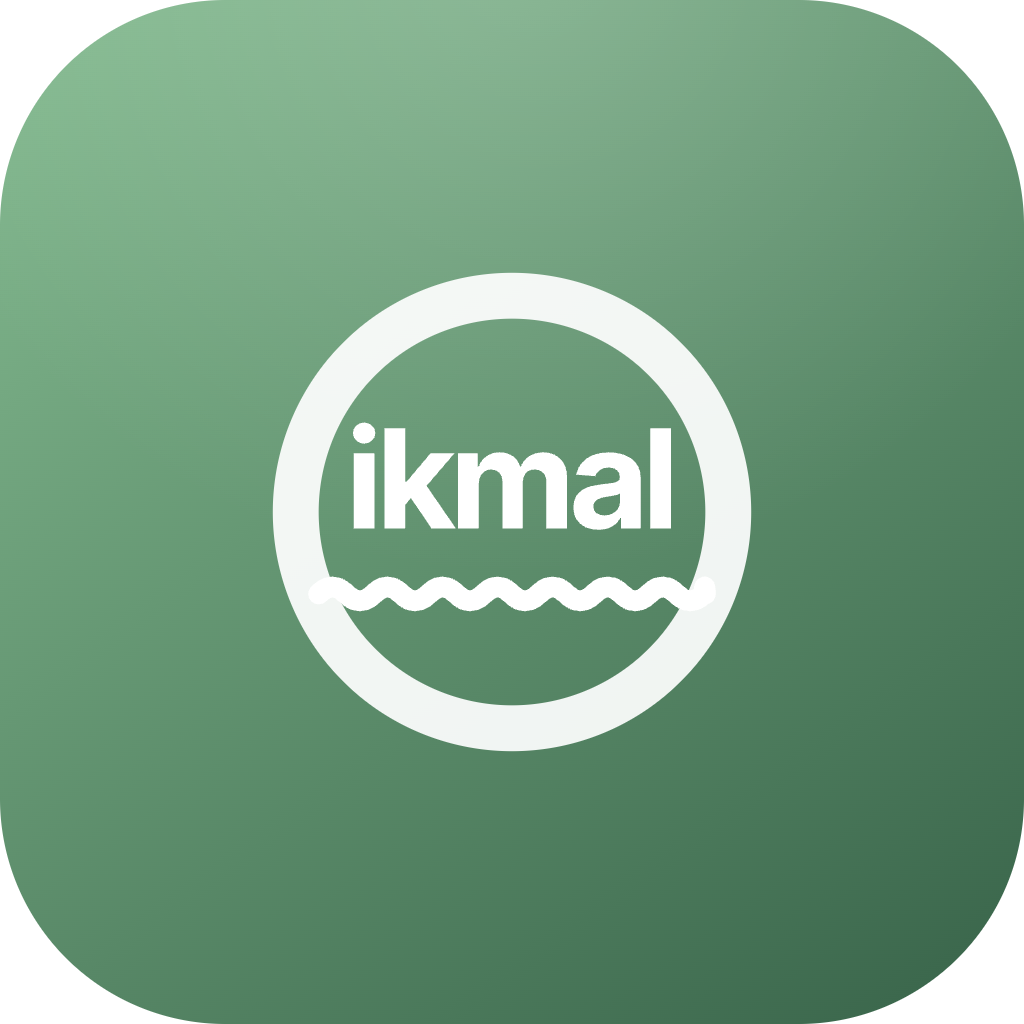
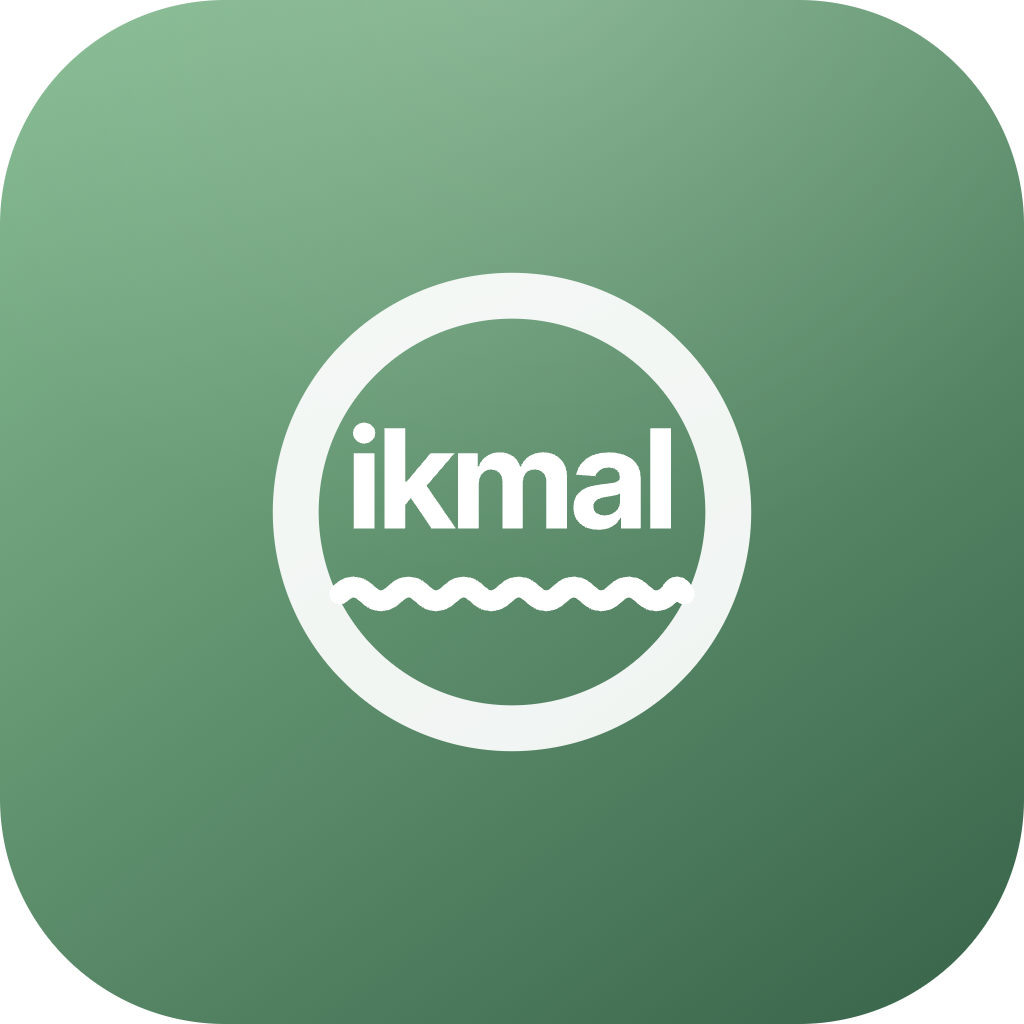
design: measure the underline from the word, not from the frame
The full tier's squiggle ran 59 units wide under a 48.6-unit word — 5.2 units
proud at each end, which reads as a rule the word is sitting on rather than as
the word's own underline.

It was a fixed inset from the 100-unit frame, so it had no relationship to the
thing it underlines: any change to wordSize needed a second, manual adjustment
to the inset, and nothing said so. It is an overhang measured from the word's
ink width now — two units past each end — and it follows the word by
construction. The export studio's slider changes with it, from an inset of
14-30 to an overhang of 0-8, because the number a designer reaches for should
be the one they are actually thinking about.

Assets regenerated. The check in verify covers this: an underline that drifts
from its word now fails the build rather than shipping.

Changed region(s): [[0.3125, 0.5625, 0.6875, 0.5938]]

diff --git a/docs/design/logo/Editor Logo Export Studio.html b/docs/design/logo/Editor Logo Export Studio.html
@@ -72,7 +72,7 @@ a{color:var(--violet-300)}a:hover{color:var(--violet-200)}
       <div class="row"><label>Squiggle width</label><output id="o-fullSqW"></output><input type="range" id="r-fullSqW" min="1.6" max="5" step="0.1"></div>
       <div class="row"><label>Amplitude</label><output id="o-fullSqAmp"></output><input type="range" id="r-fullSqAmp" min="1" max="4" step="0.1"></div>
       <div class="row"><label>Period</label><output id="o-fullSqPeriod"></output><input type="range" id="r-fullSqPeriod" min="5" max="14" step="0.2"></div>
-      <div class="row"><label>Inset</label><output id="o-fullSqInset"></output><input type="range" id="r-fullSqInset" min="14" max="30" step="0.5"></div>
+      <div class="row"><label>Overhang</label><output id="o-fullSqOverhang"></output><input type="range" id="r-fullSqOverhang" min="0" max="8" step="0.25"></div>
     </div>
     <div class="grp"><b>Min tier — line + break</b>
       <div class="row"><label>Line Y</label><output id="o-lineY"></output><input type="range" id="r-lineY" min="30" max="48" step="0.5"></div>
@@ -148,7 +148,7 @@ const el = (h) => { const d = document.createElement("div"); d.innerHTML = h.tri
 const box = (h, w) => `<div style="width:${w}px;height:${w}px;flex:0 0 auto">${h}</div>`;
 let P = E.loadMaster(), theme = TH.sage;
 
-const KEYS = ["switchPx","ringR","ringW","ringOp","wordSize","wordY","fullSqY","fullSqW","fullSqAmp","fullSqPeriod","fullSqInset","lineY","lineW","lineH","lineOp","minSqY","minSqW","minSqAmp","minSqPeriod","brA","brB"];
+const KEYS = ["switchPx","ringR","ringW","ringOp","wordSize","wordY","fullSqY","fullSqW","fullSqAmp","fullSqPeriod","fullSqOverhang","lineY","lineW","lineH","lineOp","minSqY","minSqW","minSqAmp","minSqPeriod","brA","brB"];
 
 // accent buttons
 const segTheme = document.getElementById("seg-theme");

diff --git a/docs/design/logo/edmark.js b/docs/design/logo/edmark.js
@@ -50,7 +50,13 @@
     ringR: 33, ringW: 7, ringOp: 0.3, dy: 0,
     // full tier — the word and its underline
     wordSize: 21, wordY: 52.5, wordTrack: -1,
-    fullSqY: 62.5, fullSqW: 3.2, fullSqAmp: 2.1, fullSqPeriod: 8.4, fullSqInset: 20.5,
+    // Overhang, not inset: how far the underline runs past the word at each
+    // end. It was a fixed inset from the frame, which made the rule 59 units
+    // wide under a 48.6-unit word — 5.2 units proud at each end, reading as a
+    // rule the word sits on rather than as the word's own underline. Measured
+    // from the word, it also follows wordSize instead of needing a second
+    // adjustment every time the word changes.
+    fullSqY: 62.5, fullSqW: 3.2, fullSqAmp: 2.1, fullSqPeriod: 8.4, fullSqOverhang: 2,
     // min tier — one line of prose, broken squiggle
     lineY: 39.5, lineW: 40, lineH: 6, lineOp: 0.58,
     minSqY: 55.5, minSqW: 3.4, minSqAmp: 2.4, minSqPeriod: 9.2, brA: 0.64, brB: 0.78,
@@ -92,7 +98,10 @@
     const s = c.s || 1, dy = p.dy || 0;
     return ringMarkup(p, c) +
       wordCentered("ikmal", p.wordSize, 50, p.wordY + dy, c.fg) +
-      squiggle(p.fullSqInset, 100 - p.fullSqInset, p.fullSqY + dy, c.ac, p.fullSqW * s, p.fullSqAmp, p.fullSqPeriod);
+      (() => {
+        const half = inkW("ikmal", p.wordSize) / 2 + (p.fullSqOverhang != null ? p.fullSqOverhang : 2);
+        return squiggle(50 - half, 50 + half, p.fullSqY + dy, c.ac, p.fullSqW * s, p.fullSqAmp, p.fullSqPeriod);
+      })();
   }
   function innerMin(p, c) {
     const s = c.s || 1, dy = p.dy || 0, w = p.lineW, x = 50 - w / 2, sy = p.minSqY + dy;
